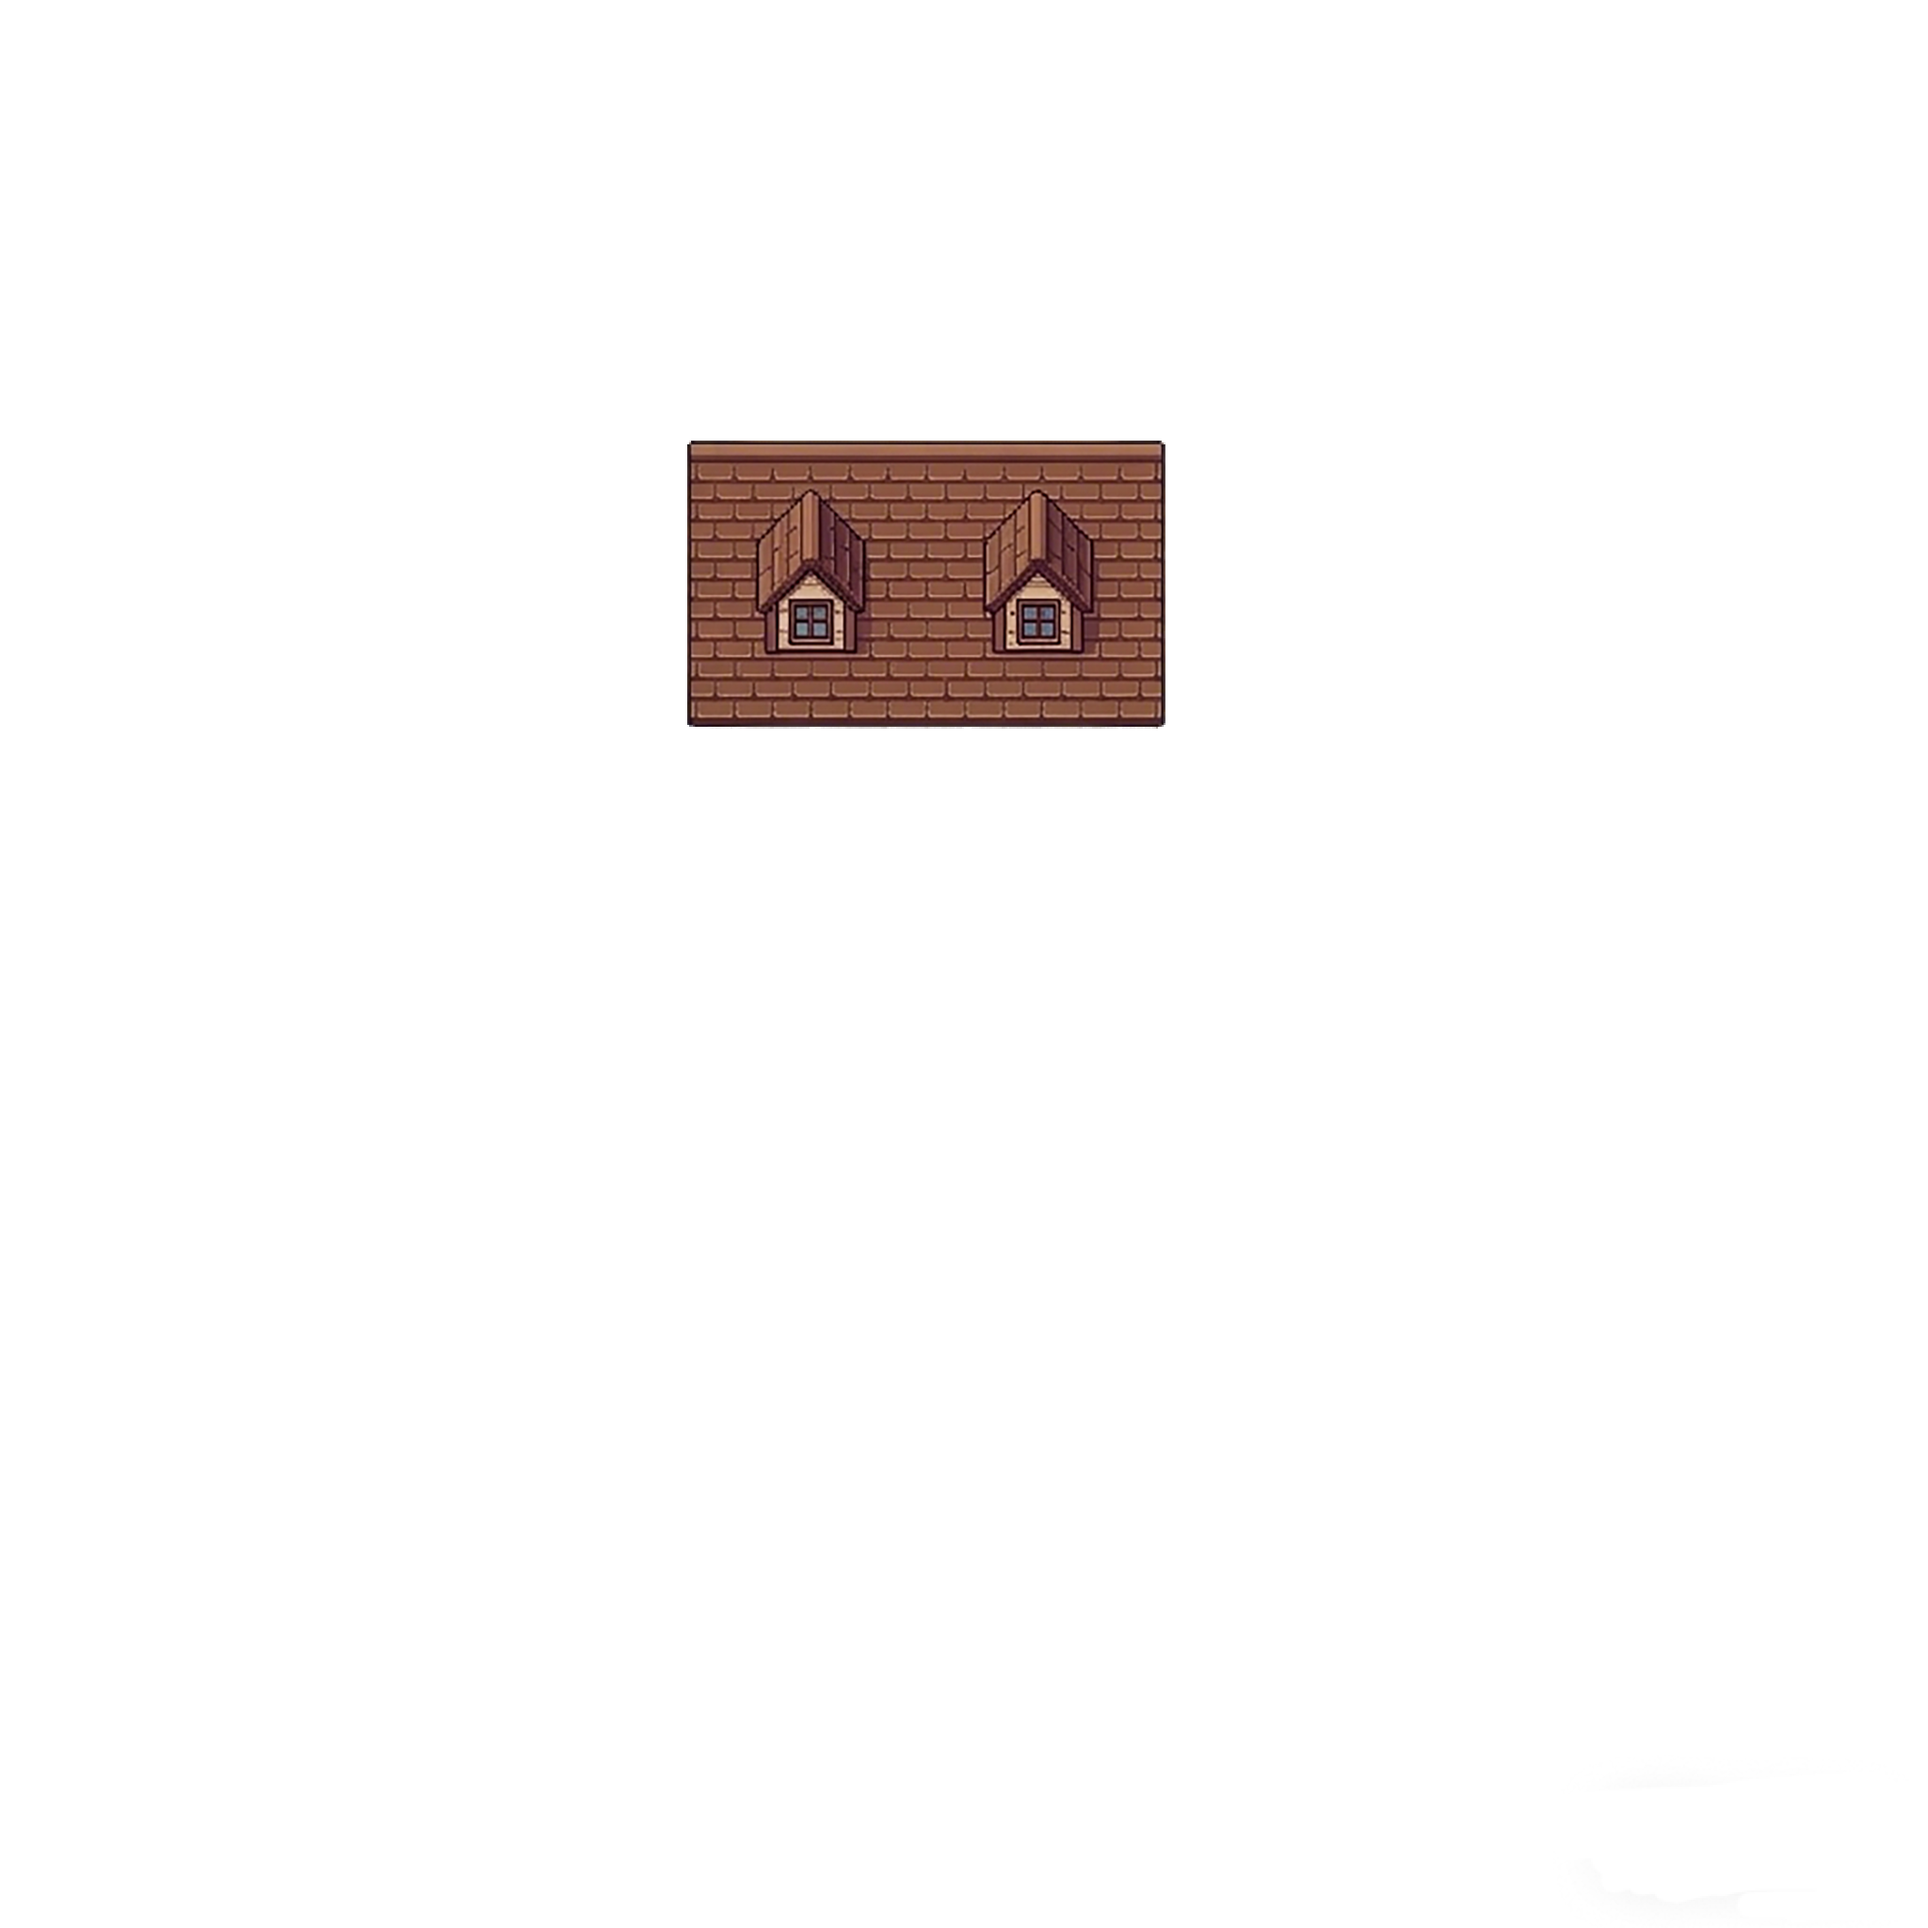
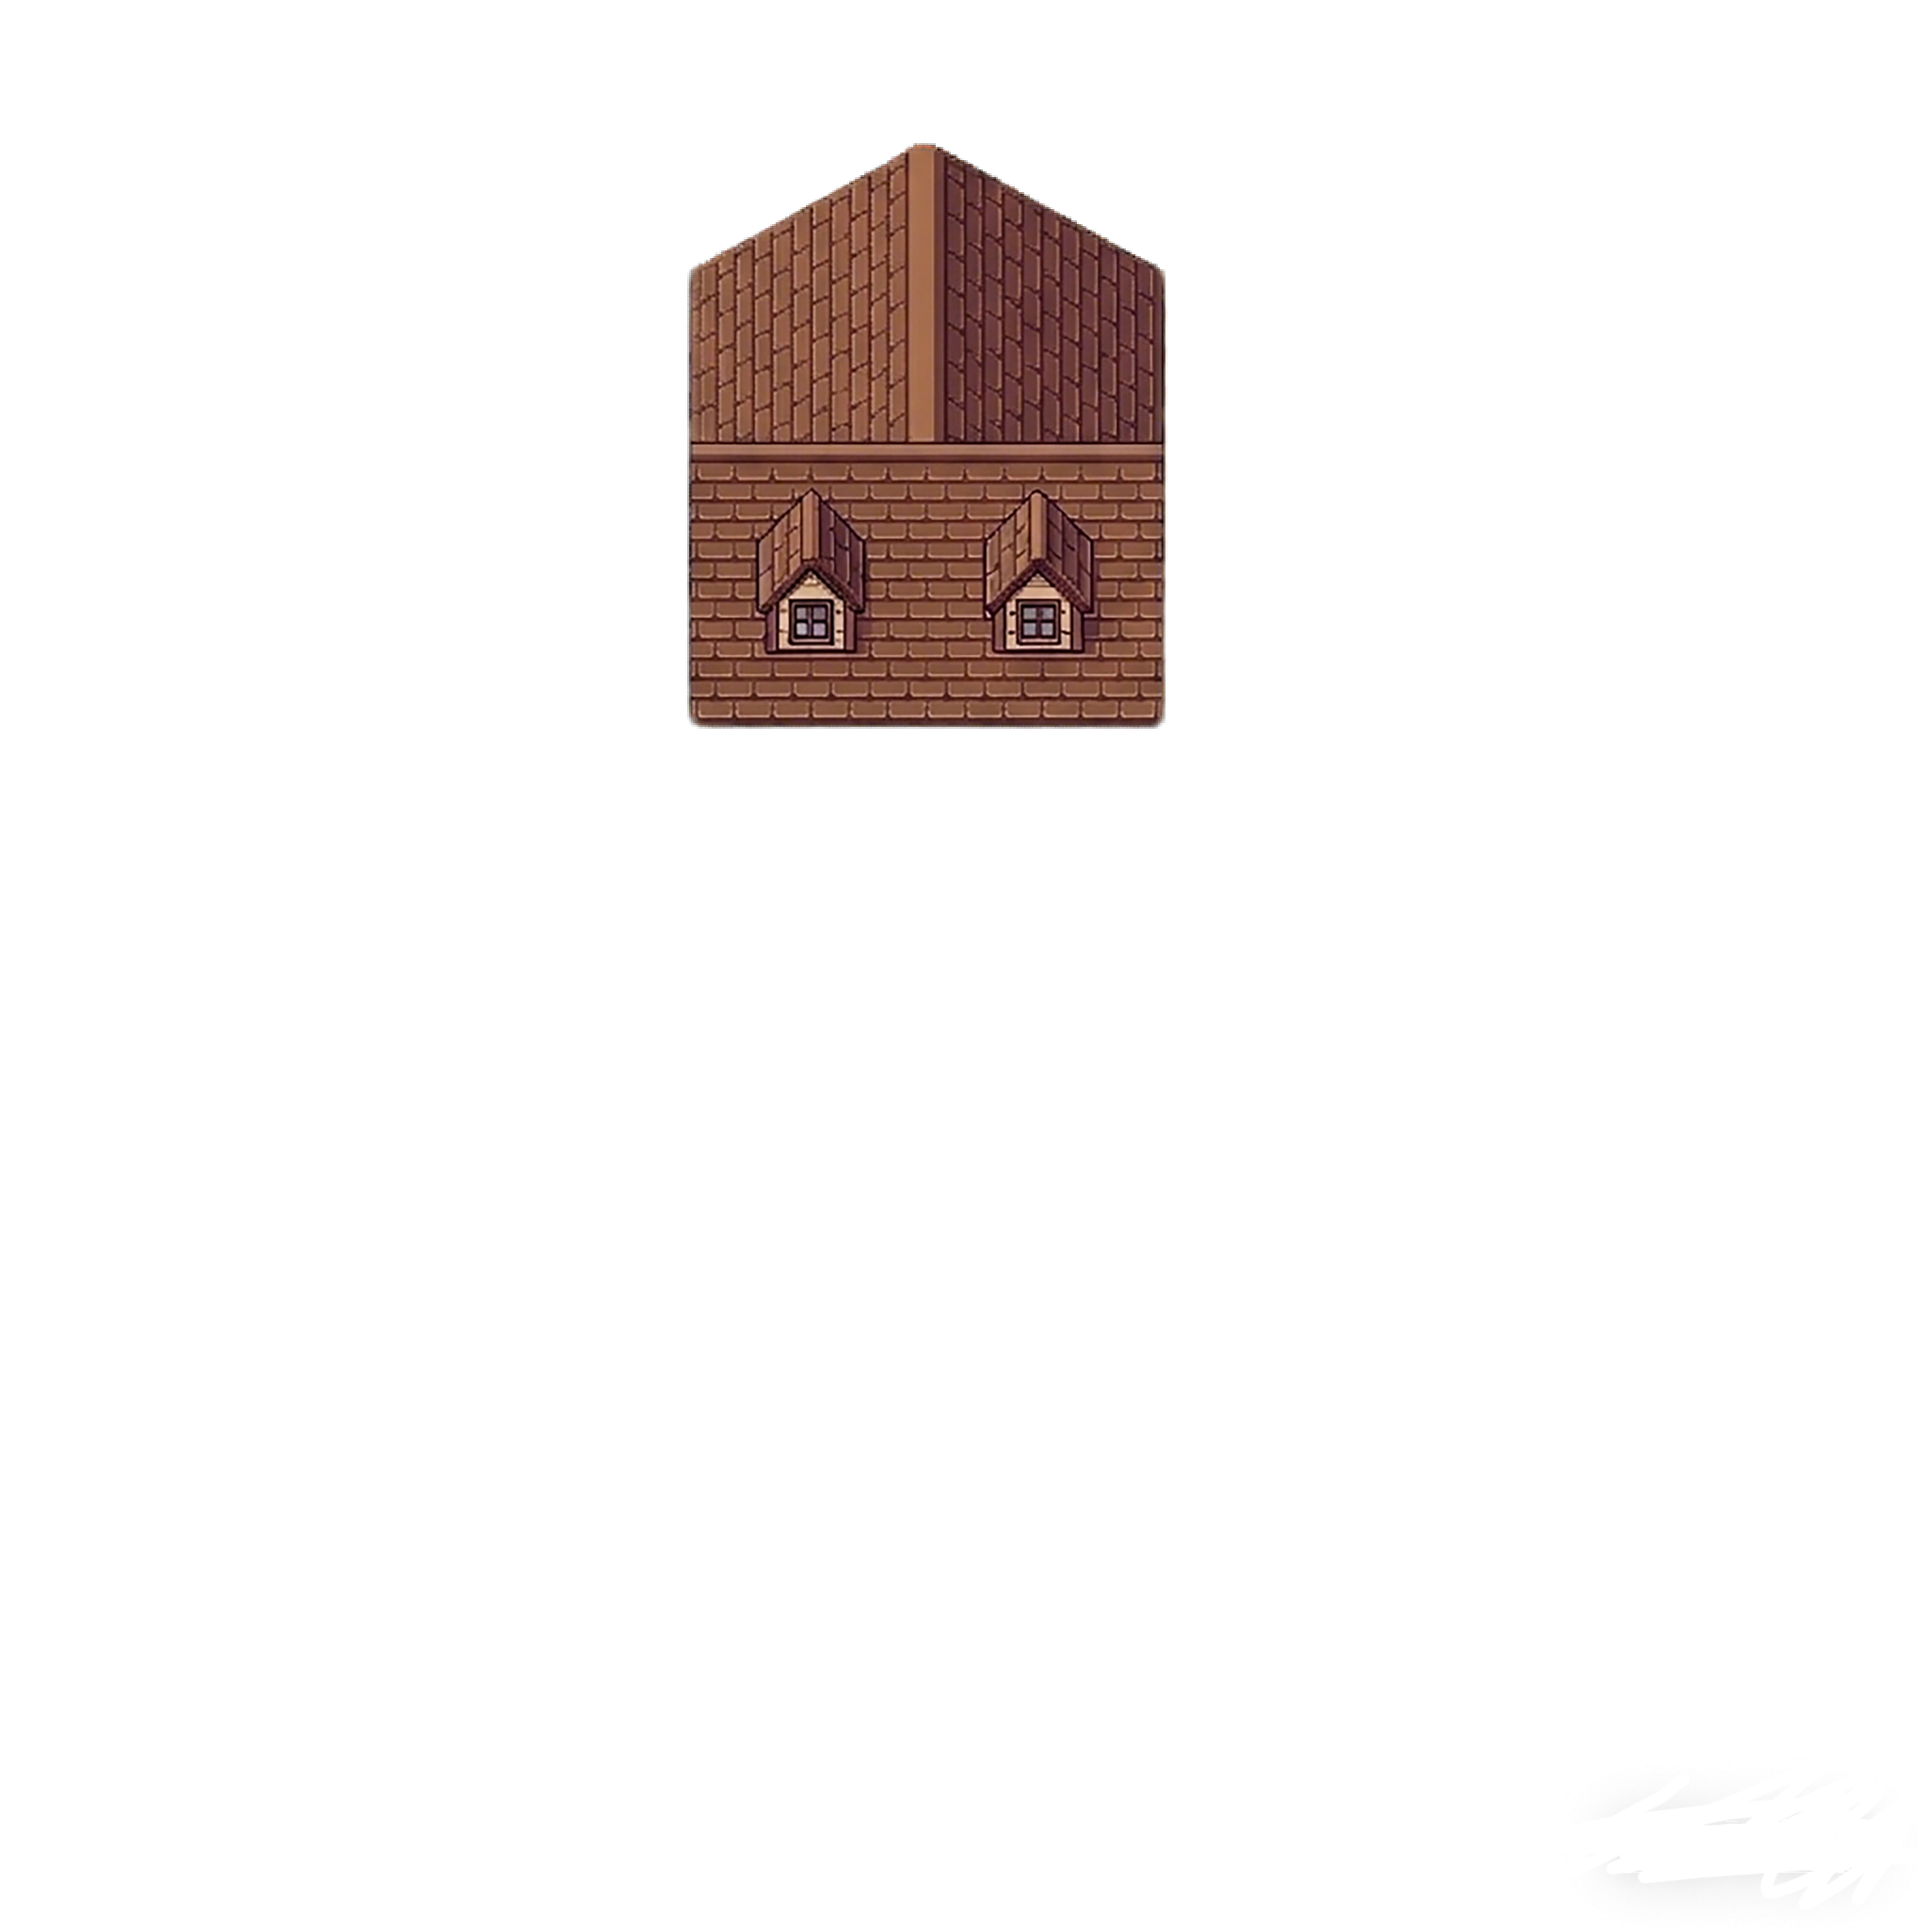
save

diff --git a/src/agents/ZhangShenNPC.ts b/src/agents/ZhangShenNPC.ts
@@ -10,6 +10,7 @@ import { buildNPCPrompt } from './townContext';
 import { TimeManager } from '../game/TimeManager';
 import { registerLPCAnims } from '../game/LPCSprite';
 import { GossipPool } from './GossipPool';
+import { ThoughtBubble } from '../game/ThoughtBubble';
 
 // 便利店内张婶的活动区域路点
 // 工位标准坐标 (1688, 620)，在其周围小范围溜达
@@ -35,6 +36,11 @@ export class ZhangShenNPC {
     private wanderTimer = 0;
     private readonly WANDER_INTERVAL = 4000; // 每4秒走到下一个路点
 
+    // 气泡系统
+    private thoughtBubble!: ThoughtBubble;
+    private lastThoughtTime = 0;
+    private readonly THOUGHT_INTERVAL = 15000; // 最少15秒冒一次
+
     constructor(scene: Phaser.Scene, timeManager: TimeManager) {
         this.scene = scene;
         this.timeManager = timeManager;
@@ -58,6 +64,9 @@ export class ZhangShenNPC {
 
         // ── AI 助手 ──
         this.aiAssistant = new NPCAIAssistant('npc_zhangshen');
+
+        // ── 气泡 ──
+        this.thoughtBubble = new ThoughtBubble(scene, this.npc);
     }
 
     // ── 公共接口 ──
@@ -66,9 +75,12 @@ export class ZhangShenNPC {
         return this.npc;
     }
 
-    // ── 每帧更新：店内溜达 ──
+    // ── 每帧更新：店内溜达 + 气泡 ──
     update(delta: number = 16): void {
-        if (this.isDialogMode) return; // 对话中站定不动
+        // 气泡始终跟随（对话中也要 update 保持位置）
+        this.thoughtBubble.update();
+
+        if (this.isDialogMode) return; // 对话中站定不动，不走路点
 
         // 更新深度（Y轴排序，和玩家/老刘老王一致）
         this.npc.setDepth(BASE_DEPTH + Math.floor(this.npc.y));
@@ -81,6 +93,9 @@ export class ZhangShenNPC {
             const next = STORE_WAYPOINTS[this.waypointIndex];
             this.npc.setTarget(next.x, next.y);
         }
+
+        // 随机冒内心独白
+        this.maybeShowRandomThought();
     }
 
     pausePatrol(): void {
@@ -90,6 +105,63 @@ export class ZhangShenNPC {
 
     resumePatrol(): void {
         this.isDialogMode = false;
+    }
+
+    // ── 内心独白 ──────────────────────────────────────────────
+
+    private showThought(text: string, duration = 4000): void {
+        this.thoughtBubble.show(text, duration);
+    }
+
+    /** 店内闲逛时随机触发 LLM 内心独白（与对话历史共享上下文） */
+    private maybeShowRandomThought(): void {
+        if (this.thoughtBubble.isShowing()) return;
+        const now = Date.now();
+        if (now - this.lastThoughtTime < this.THOUGHT_INTERVAL) return;
+        if (Math.random() > 0.012) return; // 每帧约1.2%概率，配合间隔控制频率
+
+        this.lastThoughtTime = now; // 先记录时间，防止并发重复触发
+        this.generateAndShowThought();
+    }
+
+    /**
+     * 调用 LLM 生成一句内心独白并显示在气泡里
+     * 用 [THOUGHT] 标签触发，共享 aiAssistant 对话历史（含玩家聊天上下文）
+     * 生成后移除这两条记录，避免污染正式对话历史
+     */
+    private async generateAndShowThought(): Promise<void> {
+        const hour = this.timeManager.getHour();
+        let timeHint: string;
+        if (hour >= 6 && hour < 10)       timeHint = '早上刚开门，进货忙碌';
+        else if (hour >= 10 && hour < 14) timeHint = '上午，客人陆续来';
+        else if (hour >= 14 && hour < 18) timeHint = '下午，店里比较清闲';
+        else if (hour >= 18 && hour < 22) timeHint = '傍晚，晚高峰客人多';
+        else                               timeHint = '夜里，快关门了';
+
+        const systemPrompt = buildNPCPrompt(
+            this.buildPersonality(),
+            this.timeManager.getHour(),
+            this.timeManager.getMinute()
+        );
+
+        const trigger = `[THOUGHT] 现在是${timeHint}。根据你当前的状态和你们聊过的内容，用第一人称说一句内心碎碎念。要求：不超过15个字，东北口语，自然随意，不要任何标点之外的格式。只输出那句话本身。`;
+
+        try {
+            const thought = await this.aiAssistant.handleConversation(systemPrompt, trigger);
+
+            // 生成后移除这两条（[THOUGHT]触发 + 回复），避免污染正式对话历史
+            const hist = this.aiAssistant.getHistory();
+            (this.aiAssistant as any).conversationHistory = hist.slice(0, -2);
+
+            if (thought) {
+                const clean = thought.replace(/^["「『]|["」』]$/g, '').trim();
+                this.showThought(clean, 4000);
+            }
+        } catch {
+            // LLM 失败时 fallback 到硬编码
+            const fallbacks = ['哎哟，这啥情况', '得，先整理货', '唠嗑唠累了'];
+            this.showThought(fallbacks[Math.floor(Math.random() * fallbacks.length)], 3000);
+        }
     }
 
     /**

diff --git a/src/agents/SimplePoliceNPC.ts b/src/agents/SimplePoliceNPC.ts
@@ -269,25 +269,51 @@ export class SimplePoliceNPC {
         return ['转一圈', '没啥动静，好', '辖区太平'][Math.floor(Math.random() * 3)];
     }
 
-    /** 巡逻途中随机冒出的独白（低概率，避免刷屏） */
+    /** 巡逻途中随机触发 LLM 内心独白（与对话历史共享上下文） */
     private maybeShowRandomThought(): void {
         if (this.thoughtBubble.isShowing()) return;
         const now = Date.now();
         if (now - this.lastThoughtTime < this.THOUGHT_INTERVAL) return;
         if (Math.random() > 0.015) return; // 每帧 1.5% 概率，配合间隔控制频率
 
-        const thoughts = [
-            '媳妇今天卖了多少',
-            '女儿最近咋样了',
-            '二柱子别给我回来',
-            '这条路走了二十年了',
-            '快到饭点了...',
-            '天有点凉了',
-            '今儿没啥事儿挺好',
-            '腿有点酸了',
-        ];
-        this.showThought(thoughts[Math.floor(Math.random() * thoughts.length)]);
-        this.lastThoughtTime = now;
+        this.lastThoughtTime = now; // 先记录，防止并发重复触发
+        this.generatePatrolThought();
+    }
+
+    /**
+     * 调用 LLM 生成巡逻中的内心独白
+     * 与 aiAssistant 共享对话历史，生成后移除避免污染正式上下文
+     */
+    private async generatePatrolThought(): Promise<void> {
+        const hour = this.timeManager.getHour();
+        let timeHint: string;
+        if (hour >= 10 && hour < 14)      timeHint = '上午巡逻中';
+        else if (hour >= 14 && hour < 18) timeHint = '下午巡逻中，有点乏';
+        else if (hour >= 18 && hour < 22) timeHint = '傍晚，快交班了';
+        else                               timeHint = '刚开始巡逻';
+
+        const systemPrompt = buildNPCPrompt(
+            `你是老刘（刘建国），48岁，哑巴镇白班社区民警，从警23年。东北口语，说话简短有执勤感。`,
+            this.timeManager.getHour(),
+            this.timeManager.getMinute()
+        );
+        const trigger = `[THOUGHT] 现在${timeHint}，你正在镇上走动。根据你巡逻的状态和你们聊过的内容，用第一人称说一句内心独白。要求：不超过12个字，东北口语，不要任何格式。只输出那句话本身。`;
+
+        try {
+            const thought = await this.aiAssistant.handleConversation(systemPrompt, trigger);
+            // 移除这两条，避免污染正式对话历史
+            const hist = this.aiAssistant.getHistory();
+            (this.aiAssistant as any).conversationHistory = hist.slice(0, -2);
+
+            if (thought && this.phase === 'on_duty') {
+                const clean = thought.replace(/^["「『]|["」』]$/g, '').trim();
+                this.showThought(clean, 4000);
+            }
+        } catch {
+            // fallback
+            const fallbacks = ['这条路走了二十年了', '腿有点酸了', '今儿没啥事儿挺好'];
+            this.showThought(fallbacks[Math.floor(Math.random() * fallbacks.length)], 3500);
+        }
     }
 
     // ── 上班：从出生地走进镇子 ────────────────────────────────

diff --git a/src/agents/NightPoliceNPC.ts b/src/agents/NightPoliceNPC.ts
@@ -86,6 +86,8 @@ export class NightPoliceNPC {
     private readonly PATROL_INTERVAL = 10000;
 
     private thoughtBubble!: ThoughtBubble;
+    private lastThoughtTime = 0;
+    private readonly THOUGHT_INTERVAL = 18000; // 夜巡间隔稍长，显得沉稳
     private handoffDone = false;
     private handoffPromptCache = '';
 
@@ -180,6 +182,7 @@ export class NightPoliceNPC {
                 } else {
                     this.advanceQueue();
                 }
+                this.maybeShowRandomThought();
                 break;
 
             case 'investigating':
@@ -434,6 +437,51 @@ export class NightPoliceNPC {
         this.advanceQueue();
 
         this.scheduleInvestigateThought(3000);
+    }
+
+    /** 夜巡途中随机触发 LLM 内心独白 */
+    private maybeShowRandomThought(): void {
+        if (this.thoughtBubble.isShowing()) return;
+        const now = Date.now();
+        if (now - this.lastThoughtTime < this.THOUGHT_INTERVAL) return;
+        if (Math.random() > 0.015) return;
+
+        this.lastThoughtTime = now;
+        this.generatePatrolThought();
+    }
+
+    /**
+     * 调用 LLM 生成夜巡中的内心独白
+     * 与 aiAssistant 共享对话历史，生成后移除避免污染正式上下文
+     */
+    private async generatePatrolThought(): Promise<void> {
+        const hour = this.timeManager.getHour();
+        let timeHint: string;
+        if (hour >= 22)             timeHint = '刚开始夜巡，夜深了';
+        else if (hour >= 2)         timeHint = '深夜巡逻，最安静的时候';
+        else if (hour >= 4)         timeHint = '凌晨，快天亮了';
+        else                        timeHint = '夜里巡逻中';
+
+        const systemPrompt = buildNPCPrompt(
+            `你是老王（王建军），55岁，哑巴镇夜班警察，话少，心细，夜里一个人巡逻。东北口音，沉稳不多话。`,
+            this.timeManager.getHour(),
+            this.timeManager.getMinute()
+        );
+        const trigger = `[THOUGHT] 现在${timeHint}，你正在镇上夜巡。根据你当前状态和你们聊过的内容，用第一人称说一句内心独白。要求：不超过12个字，东北口语，沉稳简短，不要任何格式。只输出那句话本身。`;
+
+        try {
+            const thought = await this.aiAssistant.handleConversation(systemPrompt, trigger);
+            const hist = this.aiAssistant.getHistory();
+            (this.aiAssistant as any).conversationHistory = hist.slice(0, -2);
+
+            if (thought && this.phase === 'on_duty') {
+                const clean = thought.replace(/^["「『]|["」』]$/g, '').trim();
+                this.thoughtBubble.show(clean, 4000);
+            }
+        } catch {
+            const fallbacks = ['夜里挺安静', '黑灯瞎火的', '腿酸了，继续转'];
+            this.thoughtBubble.show(fallbacks[Math.floor(Math.random() * fallbacks.length)], 3500);
+        }
     }
 
     /** 出警途中循环生成 LLM 内心独白 */
